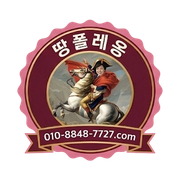
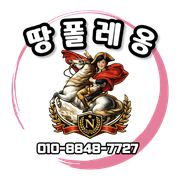
로고 교체: 새 땅폴레옹 로고(투명 배경) 적용, 아이콘·파비콘 재생성
Claude-Session: https://claude.ai/code/session_019k3PisT9J9vdDasu39CRAW

diff --git a/centa-os/src/components/brand.tsx b/centa-os/src/components/brand.tsx
@@ -1,12 +1,12 @@
 /* eslint-disable @next/next/no-img-element */
 // 센타부동산 / 땅폴레옹 로고. 파일은 public/brand/logo.png (로그인 전에도 보이도록 미들웨어에서 허용)
 export function BrandMark({ size = 56 }: { size?: number }) {
-  return <img src="/brand/logo.png" alt="땅폴레옹 센타부동산 로고" width={Math.round(size * 261 / 254)} height={size} style={{ height: size, width: 'auto' }} />;
+  return <img src="/brand/logo.png" alt="땅폴레옹 센타부동산 로고" width={Math.round(size * 453 / 458)} height={size} style={{ height: size, width: 'auto' }} />;
 }
 export function Brand() {
   return (
     <div className="mb-4 flex items-center gap-2 px-1">
-      <BrandMark size={52} />
+      <BrandMark size={56} />
       <div className="leading-tight"><div className="text-base font-extrabold text-brand">센타부동산</div><div className="text-[11px] text-gray-500">땅폴레옹 · REALTY OS</div></div>
     </div>
   );
